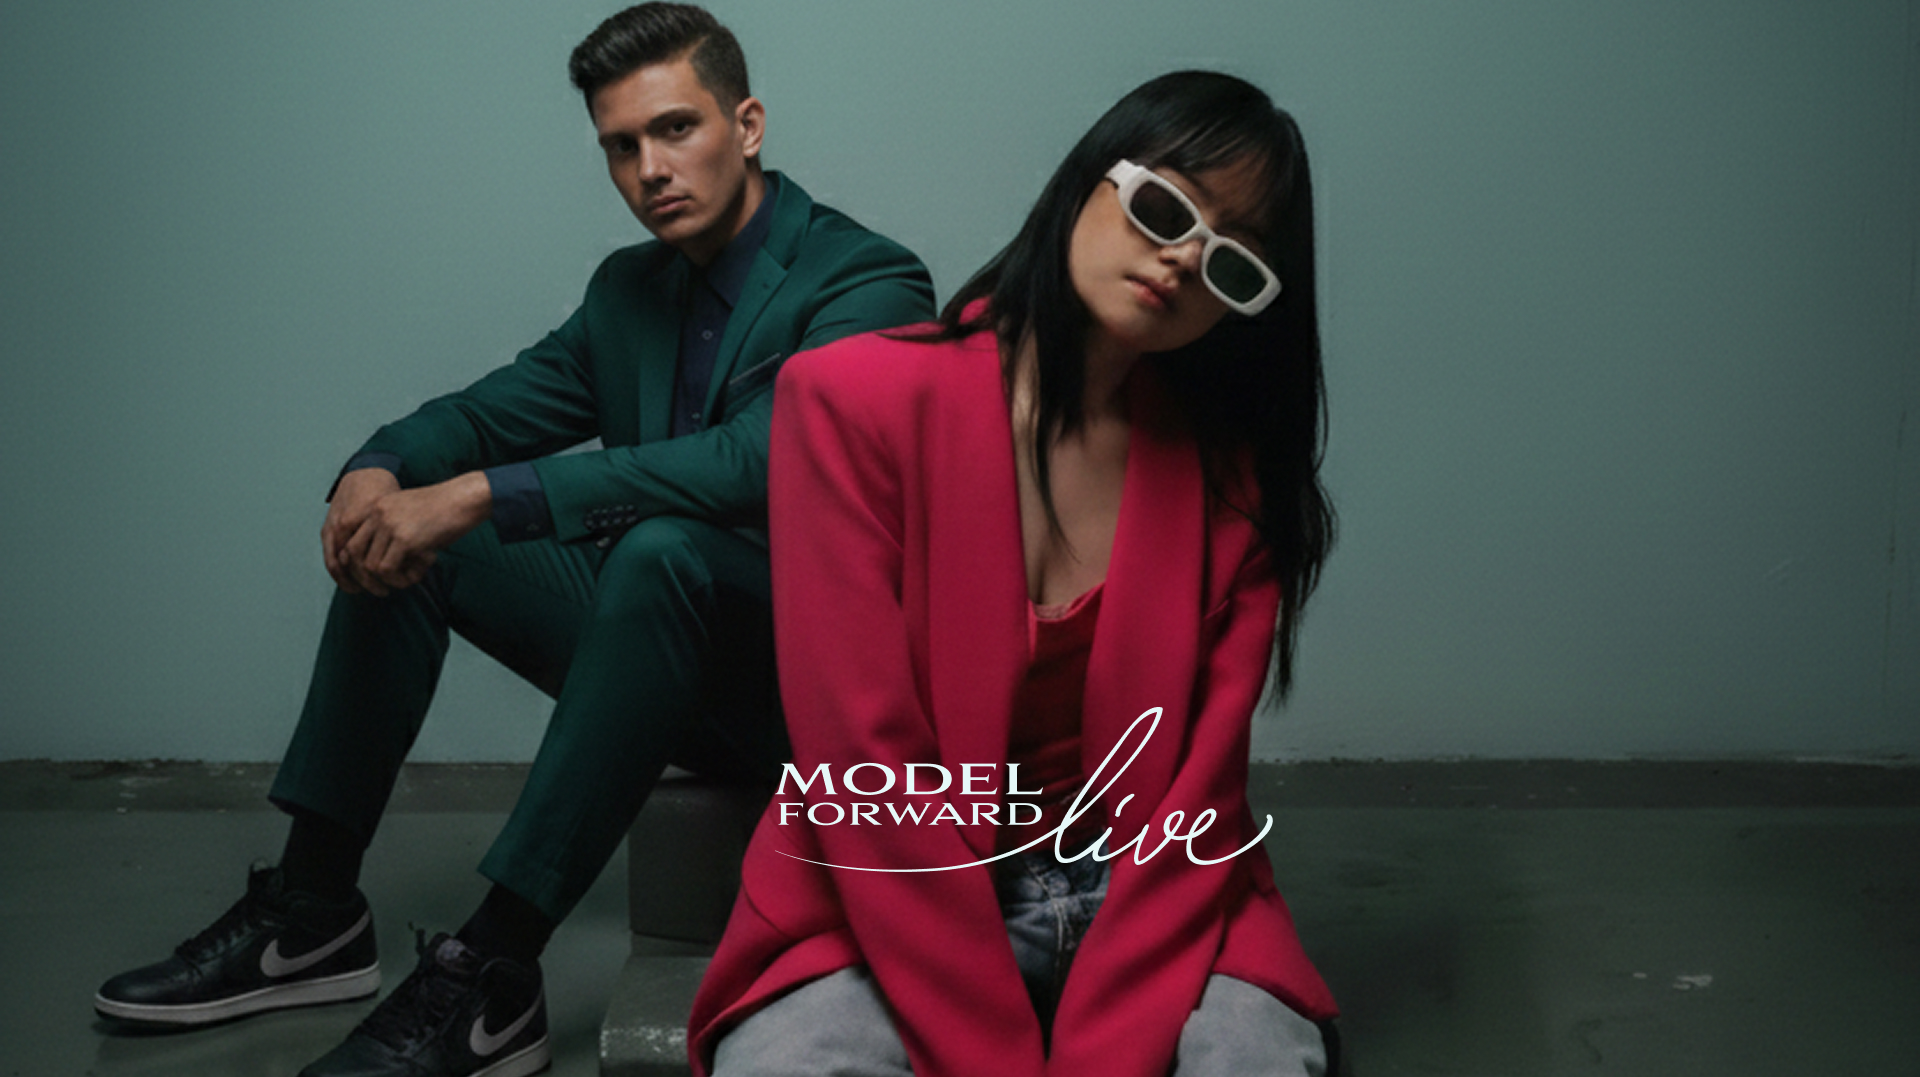
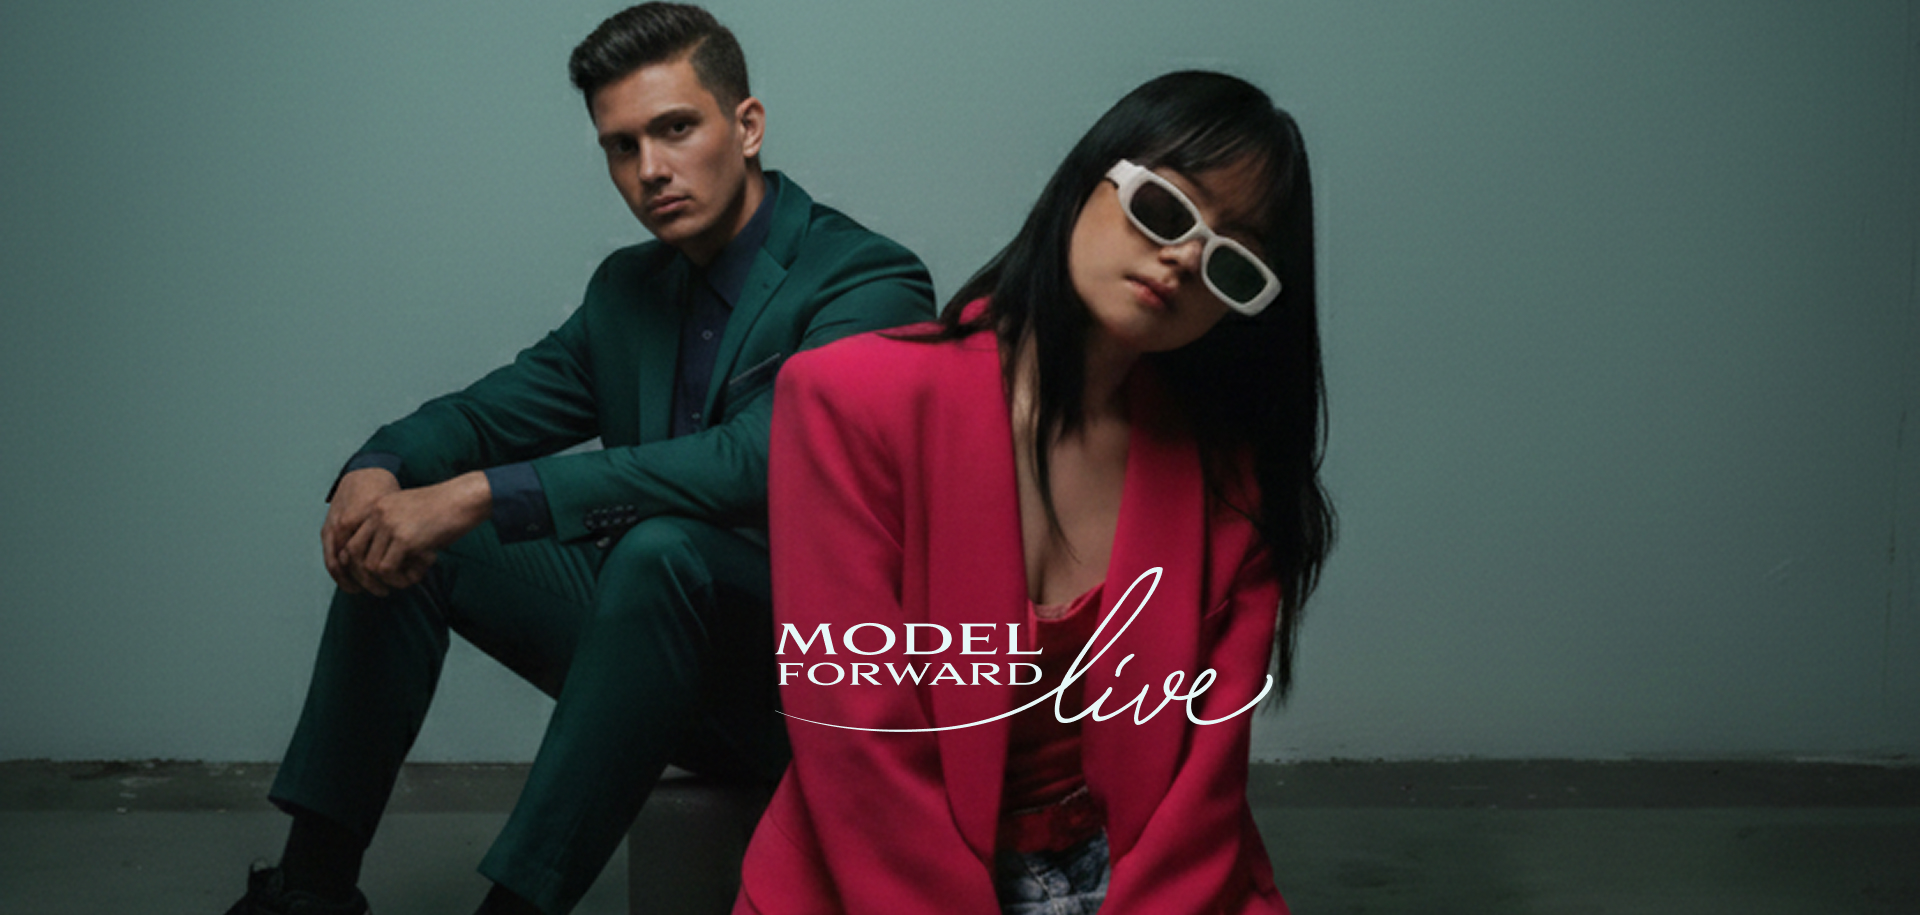
feat: Add LandingHero and LandingPartners components, event and landing page data, and hero image asset.

diff --git a/src/lib/data/landing-data.js b/src/lib/data/landing-data.js
@@ -38,7 +38,8 @@ export const landingData = {
                     type: "image",
                     url: "/images/partner-logo-1.png",
                     alt: "Partner Logo 1"
-                }
+                },
+                slug: "/events/model-forward-live",
             },
             {
                 id: 2,
@@ -46,7 +47,8 @@ export const landingData = {
                     type: "image",
                     url: "/images/partner-logo-2.png",
                     alt: "Partner Logo 2"
-                }
+                },
+                slug: "/events/stylepreneur",
             },
             {
                 id: 3,
@@ -54,7 +56,8 @@ export const landingData = {
                     type: "image",
                     url: "/images/partner-logo-3.png",
                     alt: "Partner Logo 3"
-                }
+                },
+                slug: "#",
             },
             {
                 id: 4,
@@ -62,7 +65,8 @@ export const landingData = {
                     type: "image",
                     url: "/images/partner-logo-4.png",
                     alt: "Partner Logo 4"
-                }
+                },
+                slug: "#",
             },
             {
                 id: 5,
@@ -70,7 +74,8 @@ export const landingData = {
                     type: "image",
                     url: "/images/partner-logo-5.png",
                     alt: "Partner Logo 5"
-                }
+                },
+                slug: "#",
             },
             {
                 id: 6,
@@ -78,7 +83,8 @@ export const landingData = {
                     type: "image",
                     url: "/images/partner-logo-6.png",
                     alt: "Partner Logo 6"
-                }
+                },
+                slug: "#",
             }
         ],
     },
@@ -113,7 +119,7 @@ export const landingData = {
                     url: "/images/event-3-1.jpg",
                     alt: "complete modeling career launchpad"
                 },
-                slug: "model-forward-live",
+                slug: "/events/model-forward-live",
                 category: "EVENT",
             },
             {

diff --git a/src/components/blocks/landing/landing-partners.jsx b/src/components/blocks/landing/landing-partners.jsx
@@ -7,6 +7,7 @@ import Autoplay from "embla-carousel-autoplay";
 
 import Image from "next/image";
 import { Text } from "@/components/utils/typography";
+import Link from "next/link";
 
 export default function LandingPartners({ data, variant }) {
   const [emblaRef] = useEmblaCarousel(
@@ -52,7 +53,7 @@ export default function LandingPartners({ data, variant }) {
                     "flex-[0_0_100px] 2xs:flex-[0_0_120px] sm:flex-[0_0_20%] lg:flex-[0_0_16.666%] min-w-0 select-none",
                   )}
                 >
-                  <div className={cn("mx-auto",
+                  <Link href={item?.slug || "#"} className={cn("mx-auto block",
                     variant === "eventDetail" ? "w-full mx-w-8/10 aspect-333/45" : "w-[50px] 2xs:w-[60px] sm:w-[80px] xl:w-[100px] mx-auto aspect-2/1"
                   )}>
                     <Image
@@ -62,7 +63,7 @@ export default function LandingPartners({ data, variant }) {
                       height={57}
                       className="w-full h-full object-contain hover:scale-105 transition-transform duration-300"
                     />
-                  </div>
+                  </Link>
                 </div>
               ))}
             </div>

diff --git a/src/components/blocks/landing/landing-hero.jsx b/src/components/blocks/landing/landing-hero.jsx
@@ -40,7 +40,7 @@ export default function LandingHero({ data, variant = "default" }) {
                                 {Array.isArray(data?.backgroundMedia) && data.backgroundMedia.length > 0 ? (
                                     data.backgroundMedia.map((item) => (
                                         <div key={item?.id} className="flex-[0_0_100%] min-w-0 select-none" >
-                                            <picture className="w-full h-full min-h-[376px] sm:min-h-[420px] xl:min-h-[576px] 2xl:min-h-[768px] 3xl:min-h-[900px] block origin-center">
+                                            <picture className="w-full h-full min-h-[376px] sm:min-h-[420px] xl:min-h-[576px] 2xl:min-h-[668px] 3xl:min-h-[720px] max-h-screen block origin-center">
                                                 <source
                                                     media="(max-width: 640px)"
                                                     srcSet={item?.mobileUrl || item?.url}

diff --git a/src/lib/data/events-data.js b/src/lib/data/events-data.js
@@ -3,7 +3,7 @@ export const eventsData = [
         slug: "model-forward-live",
         pageTitle: "Model Forward Live",
         eventInfo: {
-            date: "29 mar 2026",
+            date: "31 may 2026",
             dateInfo: "IDS Global business center",
             location: "Dubai",
             duration: "10 hours",
@@ -521,7 +521,7 @@ export const eventsData = [
                     id: 2,
                     status: "upcoming",
                     title: "Model Forward Edition 2: ",
-                    description: "29 March 2026, IDS Global Business Center, Dubai",
+                    description: "31 May 2026, IDS Global Business Center, Dubai",
                     items: [
                         {
                             id: 1,
